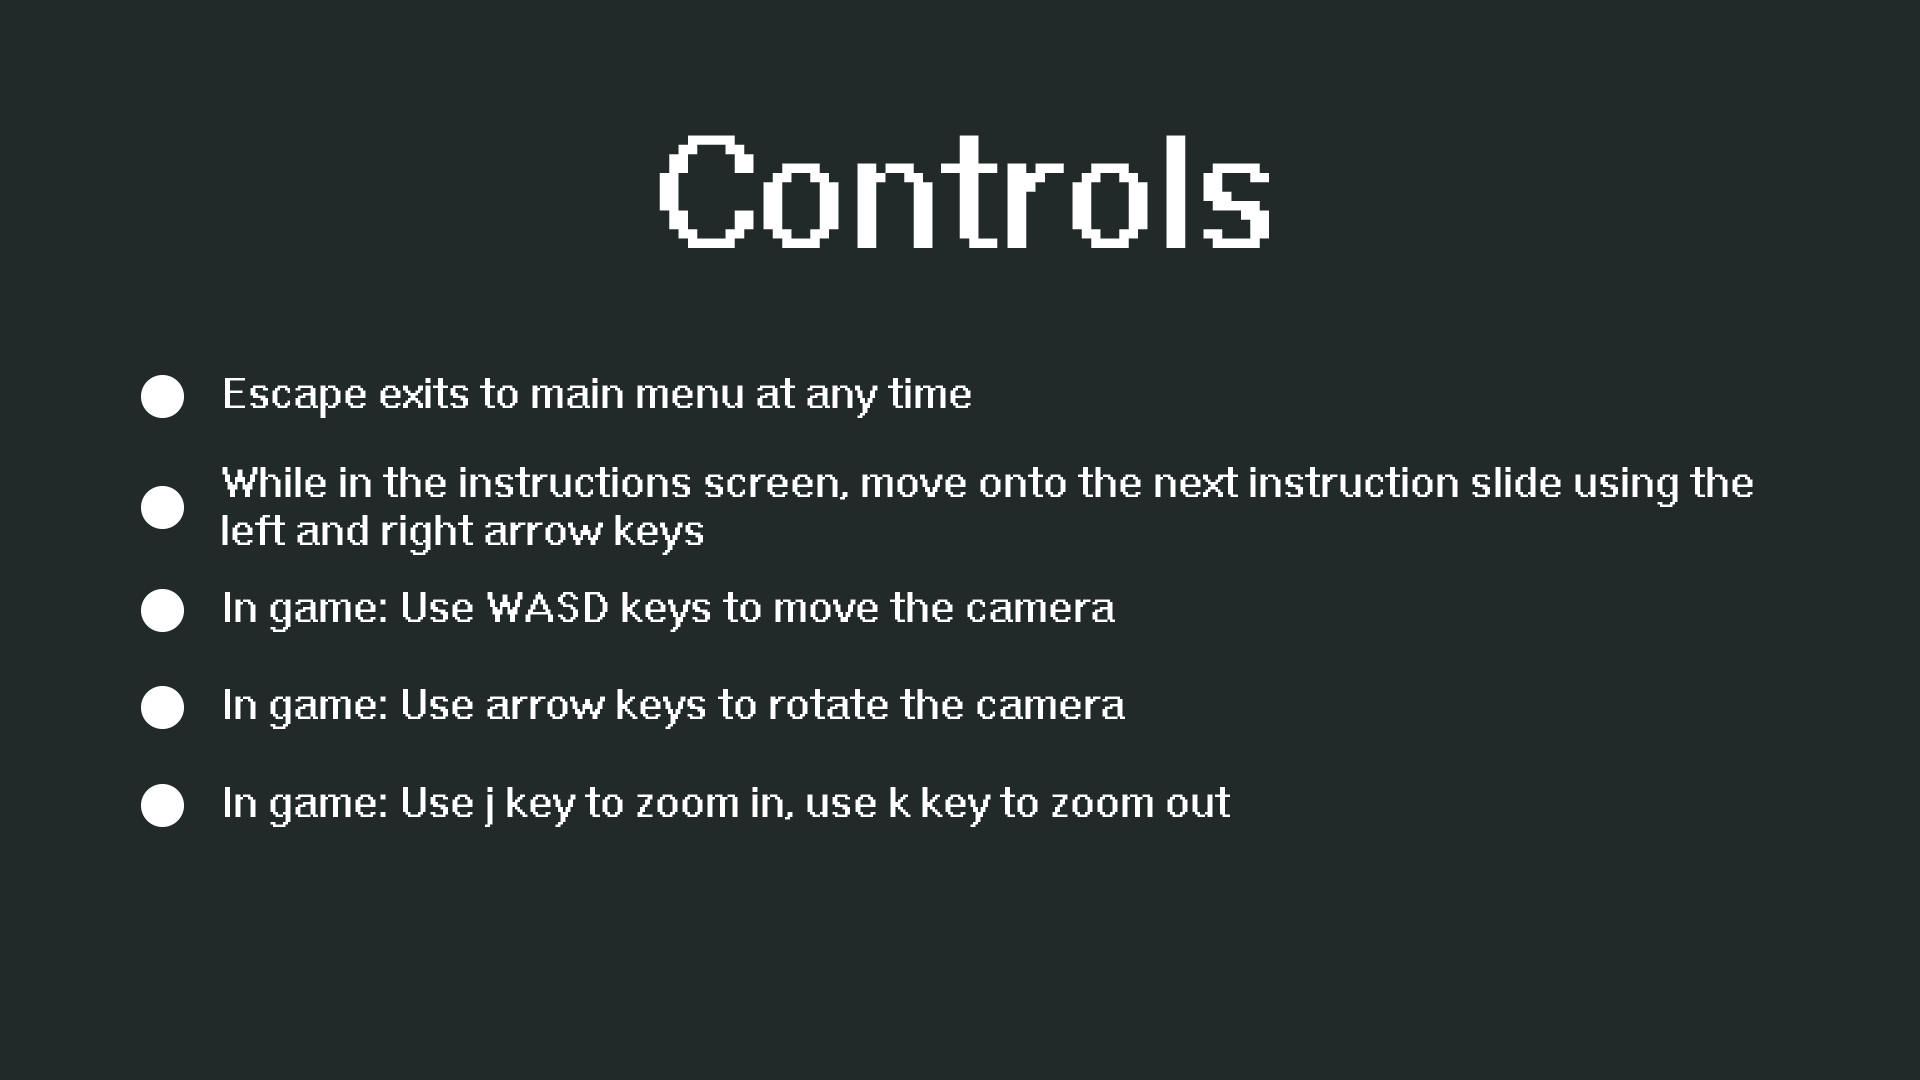
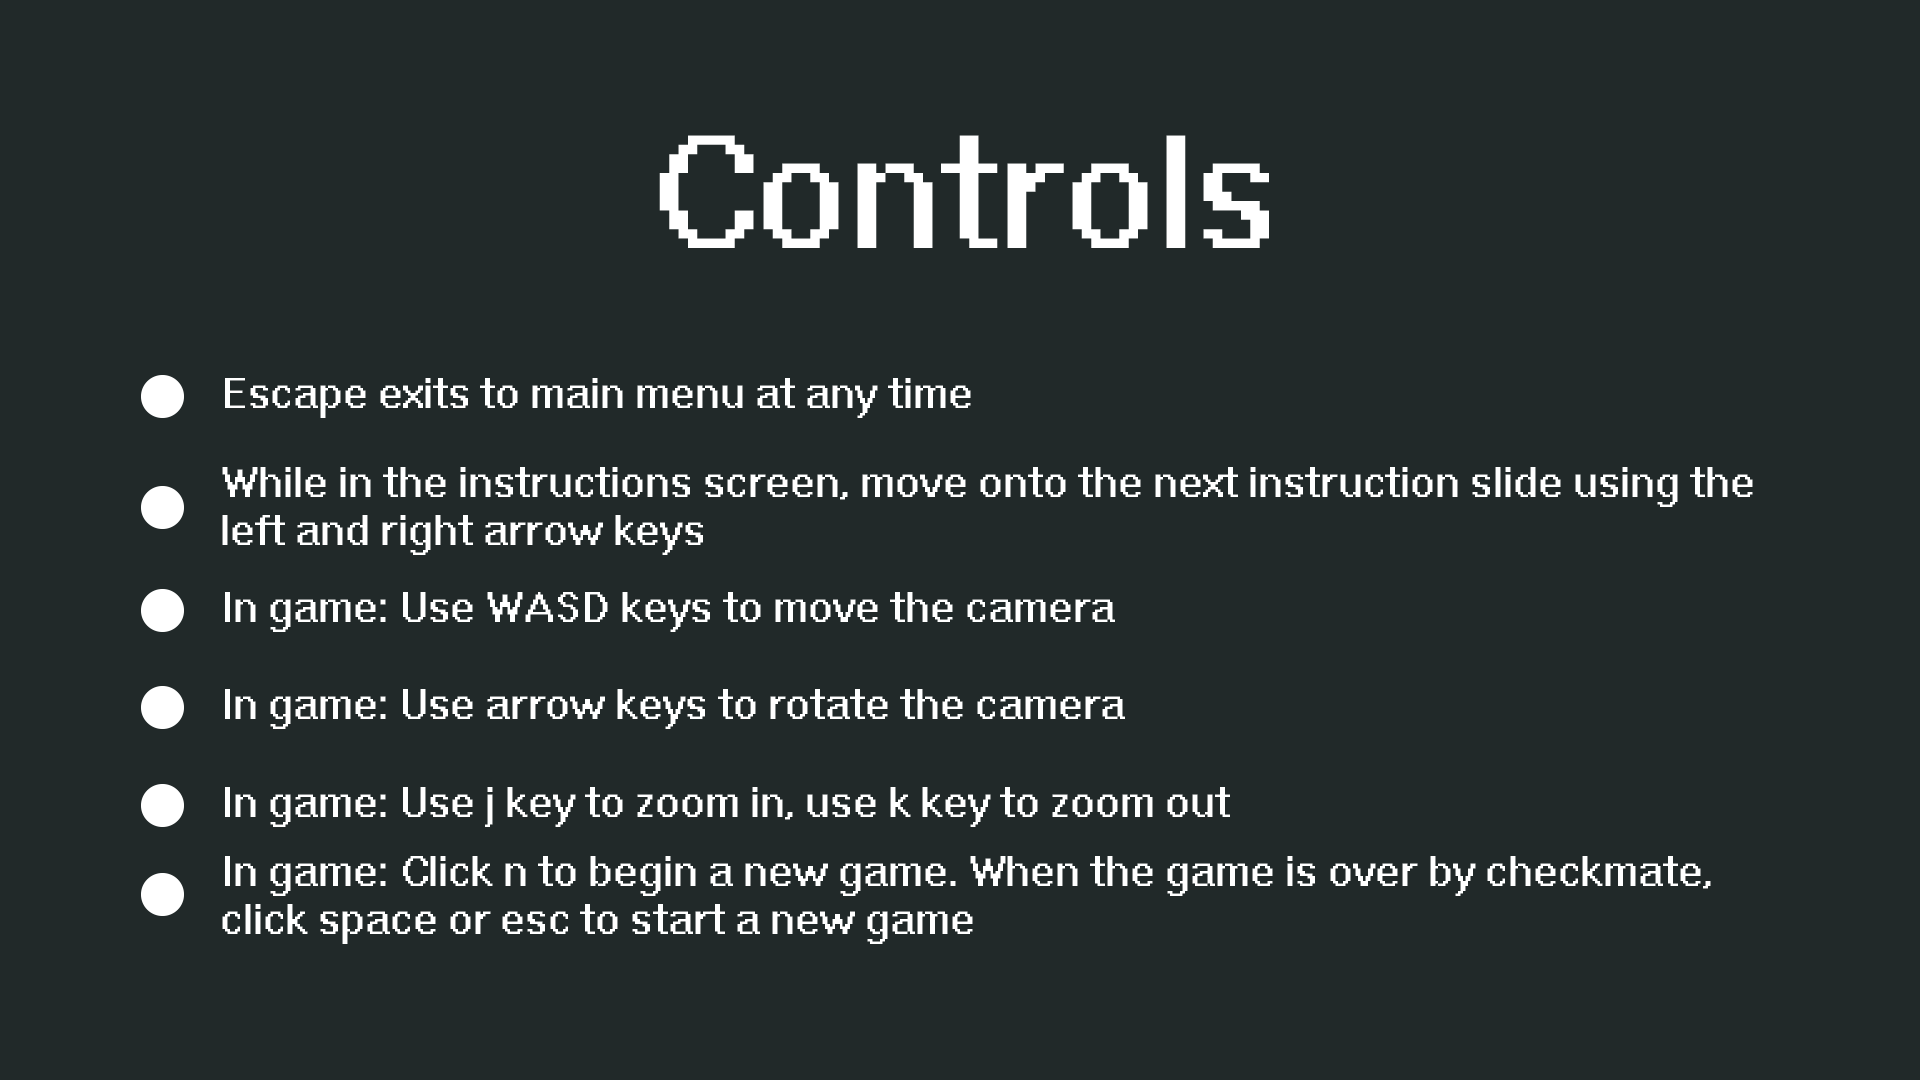
added design docs and link to demo video

Changed region(s): [[0.0625, 0.7944, 0.9062, 0.8861]]

diff --git a/final.py b/final.py
@@ -19,8 +19,7 @@ from direct.interval.IntervalGlobal import *
 # Thanks to:
     # Professor Kosbie for suggesting 3D Chinese Chess for my TP idea
     # Elan for suggesting the idea of moving the camera after each move
-    # Michelle for undying support <3
-
+    # Michelle for support 
 
 # From https://www.cs.cmu.edu/~112/notes/notes-variables-and-functions.html
 def roundHalfUp(d):
@@ -366,11 +365,22 @@ def runGame():
             a = KeyboardButton.ascii_key('a')
             s = KeyboardButton.ascii_key('s')
             d = KeyboardButton.ascii_key('d')
+            n = KeyboardButton.ascii_key('n')
 
             isDown = base.mouseWatcherNode.is_button_down
 
+            # n: New Game button while playing game
+            if((isDown(n)) and (Model.playingGame)):
+                Model.gameOver = False
+                if(Model.kingInCheck != None):
+                    Model.kingInCheck.removeNode()
+                if(Model.kingCheckmated != None):
+                    Model.kingCheckmated.removeNode()
+                Controller.initGame(self)
+                Controller.toDefaultRed(self)
+
             # Space: Go to game (based on current player)
-            if(isDown(space)): 
+            elif(isDown(space)): 
                 # Resets game if checkmate
                 if(Model.gameOver):
                     Model.gameOver = False
@@ -381,6 +391,7 @@ def runGame():
                 # From main menu or instructions
                 elif((not Model.playingGame) or (Model.inInstructions)):
                     Model.playingGame = True
+                    Model.inInstructions = False
                     if(Model.currentPlayer == 'Red'):
                         Controller.toDefaultRed(self)   
                     else:

diff --git a/README.md b/README.md
@@ -8,7 +8,7 @@ Fall-2019
 
 Final Term Project for: https://www.cs.cmu.edu/~112/
 
-External Modules used: Panda3D: https://www.panda3d.org/
+External Modules used/needed: Panda3D: https://www.panda3d.org/
 
 External Software used: Adobe After Effects, Blender 2.70, Blender YABEE Exporter
 
@@ -19,6 +19,8 @@ External Code used:
 	-Used code from 112 course (roundHalfUp)
 		-https://www.cs.cmu.edu/~112/notes/notes-variables-and-functions.html
 
+Run the project by opening "final.py" in a code editor and running it.
+
 Notes:
 
 	-When first playing the game, it will take a second or so after clicking/selecting a piece for the color to change. This is because the model needs to be loaded for the first time into the game.
@@ -26,8 +28,11 @@ Notes:
 	-Use the arrow keys (left, right) to rotate the board horizontally and (up, down) to rotate the board vertically
 	-Used WASD keys to move the position of the camera (the movement will always be relative to how much you have rotated the board)
 	-Use "j" to zoom in closer to the board and use "k" to zoom out from the board
+	-When checkmated, click "n", "space", or "esc" to start a new game
+	-Click "n" anytime in game to start a new game.
 
 	-When in the instructions screen, click left and right arrow to switch between slides. 
+		-Do not spam click the keys, wait for the animation to finish, otherwise it will not properly transition
 	-Click "esc" anytime to go back to the main menu (whether in instructions or in game)
 
 	-Lime Green indicates what piece is currently selected
